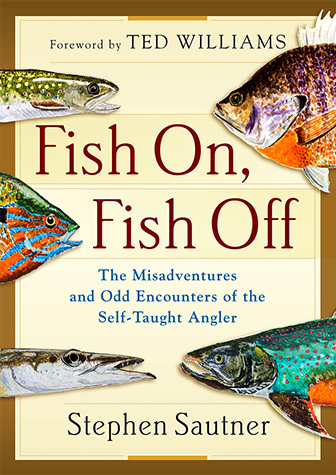
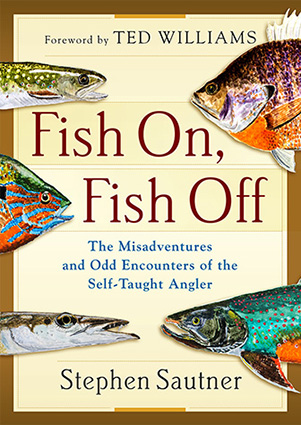
Initial changes to support new book

diff --git a/css/stephensautner.css b/css/stephensautner.css
@@ -1,1 +1,1 @@
-*{margin:0;padding:0}a{color:#244c69;transition:all .1s ease-out}a:hover{color:#3379ac}body,html{font-size:16px;line-height:16px;max-width:100%;overflow-x:hidden;width:100%;-webkit-font-smoothing:antialiased}img{border:0;display:block}.ss-text-header{color:#302713;font-family:'Playfair Display','Georgia','Times New Roman',serif;transition:all .1s ease-out}.ss-text-header--is-about{font-size:2.1875rem;line-height:2.1875rem;margin:0 0 30px}@media all and (max-width:800px){.ss-text-header--is-about{margin:0 0 15px;text-align:center}}.ss-text-header--is-feature{font-size:3.125rem;line-height:3.125rem;margin:0 0 30px}@media all and (max-width:1100px){.ss-text-header--is-feature{font-size:2.85rem;line-height:2.85rem;margin:0 0 20px}}@media all and (max-width:800px){.ss-text-header--is-feature{font-size:2.25rem;line-height:2.25rem;margin:0 0 15px}}.ss-text-header--is-page-title{background-image:-webkit-linear-gradient(transparent, transparent),url('../images/texture-tan.jpg');background-image:-o-linear-gradient(transparent, transparent);color:#e7e2d5;font-size:4.5rem;line-height:6rem;margin:30px 0 0;text-align:center;-webkit-background-clip:text;-webkit-text-fill-color:transparent}@media all and (max-width:1100px){.ss-text-header--is-page-title{font-size:3.5rem;line-height:4rem;margin:17px 0 0}}@media all and (max-width:800px){.ss-text-header--is-page-title{font-size:2.75rem;line-height:3.25rem;margin:10px 0 0}}@media all and (max-width:450px){.ss-text-header--is-page-title{font-size:2.25rem;line-height:2.75rem;margin:8px 0 0 0}}.ss-text-header--is-section-header{color:#fff;font-size:2.1875rem;line-height:2.1875rem;margin:0 0 50px;text-align:center}@media all and (max-width:450px){.ss-text-header--is-section-header{font-size:1.85rem;line-height:1.85rem}}.ss-text-header--is-subheader{color:#8f7a4c;font-size:1.5625rem;line-height:1.5625rem;margin:0 0 10px}@media all and (max-width:1100px){.ss-text-header--is-subheader{font-size:1.45rem;line-height:1.45rem}}@media all and (max-width:800px){.ss-text-header--is-subheader{font-size:1.25rem;line-height:1.25rem}}.ss-text-header--is-work-item{color:#fff;font-size:1.5625rem;line-height:1.5625rem}@media all and (max-width:800px){.ss-text-header--is-work-item{font-size:1.45rem;line-height:1.45rem}}.ss-overlay-type{color:#fff;font-family:'Source Serif Pro','Georgia','Times New Roman',serif;font-size:.9375rem;line-height:.9375rem;opacity:.45;text-shadow:1px 1px #000;width:auto}@media all and (max-width:800px){.ss-overlay-type{font-size:.875rem;line-height:.875rem}}@media all and (max-width:450px){.ss-overlay-type{font-size:.75rem;line-height:.75rem}}.ss-button{background:url('../images/texture-tan.jpg');border-radius:4px;color:#302713;display:inline-block;font-family:'Playfair Display','Georgia','Times New Roman',serif;font-size:1.4375rem;line-height:1.4375rem;padding:8px 15px 12px;text-decoration:none;transition:all .1s ease-out}.ss-button:hover{color:#302713;opacity:.85}.ss-button--small{font-size:1.25rem;line-height:1.25rem;padding:7px 12px 9px}.ss-section{padding:60px 7.0833%;position:relative}.ss-section--blue{background:url('../images/texture-blue.jpg')}.ss-section--brown{background:url('../images/texture-brown.jpg')}.ss-section--dark-brown{background:url('../images/texture-dark-brown.jpg')}.ss-section--tan{background:url('../images/texture-tan.jpg')}.ss-section__container{margin:0 auto;max-width:1130px}.ss-header{background-image:url('../images/photo-header-full.jpg');background-position:center center;background-size:cover;max-height:700px;position:relative}@media all and (max-width:1100px){.ss-header{background-image:url('../images/photo-header-desktop.jpg')}}@media all and (max-width:800px){.ss-header{background-image:url('../images/photo-header-tablet.jpg')}}@media all and (max-width:450px){.ss-header{background-image:url('../images/photo-header-mobile.jpg')}}.ss-header:before{display:block;content:"";width:100%;padding-top:50%}.ss-header__caption{bottom:5px;right:10px;position:absolute}@media all and (max-width:800px){.ss-header__caption{bottom:25px;left:10px;right:auto;width:100%}}@media all and (max-width:450px){.ss-header__caption{bottom:21px}}.ss-header__content{position:absolute;top:0;left:0;right:0;bottom:0}.ss-header__copyright{bottom:5px;left:10px;position:absolute}.ss-nav{margin:15px auto 0;text-align:center;width:100%}@media all and (max-width:800px){.ss-nav{margin:10px auto 0}}.ss-nav__item{color:#88a5a0;font-family:'Playfair Display','Georgia','Times New Roman',serif;font-size:1.4375rem;line-height:1.4375rem;margin:0 30px 0 0;transition:all .1s ease-out;text-decoration:none}.ss-nav__item:hover{color:#b4d5cf}.ss-nav__item:last-of-type{margin:0}@media all and (max-width:1100px){.ss-nav__item{font-size:1.25rem;line-height:1.25rem;margin:0 20px 0 0}}@media all and (max-width:800px){.ss-nav__item{font-size:1.15rem;line-height:1.15rem;margin:0 15px 0 0}}@media all and (max-width:450px){.ss-nav{display:none}}.ss-feature__container{display:inline-block;width:58%;vertical-align:top}@media all and (max-width:800px){.ss-feature__container{width:100%}}.ss-feature__image{background:rgba(121,82,53,0.1);display:inline-block;margin:0 5% 0 0;max-width:336px;padding:2.91%;width:29.8%}@media all and (max-width:800px){.ss-feature__image{display:block;margin:0 auto 30px;padding:5%;width:90%}}.ss-feature__image__cover{height:auto;width:100%}.ss-feature__quote{margin:0 0 45px}.ss-feature__quote:last-of-type{margin:0}.ss-feature__quote__author{display:block;font-family:'Playfair Display','Georgia','Times New Roman',serif;font-size:1.5625rem;line-height:1.5265rem;margin:0 0 10px}@media all and (max-width:800px){.ss-feature__quote__author{font-size:1.35rem;line-height:1.35rem}}.ss-feature__quote__author-title{display:block;font-family:'Source Serif Pro','Georgia','Times New Roman',serif;font-size:.875rem;line-height:1.25rem;padding:0 50px 0 19px}.ss-feature__quote__content{display:block;font-family:'Source Serif Pro','Georgia','Times New Roman',serif;font-size:1.125rem;line-height:2.0625rem;margin:0 0 15px}@media all and (max-width:800px){.ss-feature__quote__content{font-size:1rem;line-height:1.9rem}}.ss-work .ss-button{margin:15px 0 0}.ss-work__author{color:#fff;display:block;font-family:'Playfair Display','Georgia','Times New Roman',serif;font-size:1.25rem;line-height:1.25rem}.ss-work__container{display:inline-block;vertical-align:top}.ss-work__container--is-left{margin:0 5.3% 0 0;width:28.85%}.ss-work__container--is-right{width:65%}@media all and (max-width:800px){.ss-work__container{display:block;margin:0 auto 60px;max-width:327px;width:100%}}.ss-work__container__item{display:inline-block;margin:0 0 38px;width:100%}.ss-work__container__item .ss-work__image{margin:0 4.8% 0 0;padding:2.7%;width:36%;vertical-align:top}@media all and (max-width:800px){.ss-work__container__item .ss-work__image{display:block;margin:0 0 15px;padding:15px;width:calc(100% - 30px)}}.ss-work__container__item .ss-work__content{display:inline-block;width:52%}@media all and (max-width:800px){.ss-work__container__item .ss-work__content{width:100%}}.ss-work__image{background:rgba(255,255,255,0.1);display:inline-block;padding:6%}@media all and (max-width:800px){.ss-work__image{display:block;max-width:287px;padding:15px}}.ss-work__image--is-cover{max-width:287px}.ss-work__image__file{height:auto;width:100%}.ss-work__text{color:#fff;display:inline-block;font-family:'Source Serif Pro','Georgia','Times New Roman',serif;font-size:1.125rem;line-height:1.6875rem;margin:15px 0 0}@media all and (max-width:800px){.ss-work__text{font-size:1rem;line-height:1.5rem}}@media all and (max-width:800px){.ss-about{padding:60px 7.0833% 40px}}.ss-about__content{width:42.5%}@media all and (max-width:800px){.ss-about__content{width:100%}}.ss-about__content__text{color:#302713;font-family:'Source Serif Pro','Georgia','Times New Roman',serif;font-size:1rem;line-height:1.9rem}.ss-about__image{background-image:url('../images/photo-about.jpg');background-position:center center;background-repeat:no-repeat;background-size:cover;height:100%;left:50%;position:absolute;top:0;width:50%}@media all and (max-width:800px){.ss-about__image{left:-8.5%;margin:0;position:relative;top:40px;width:calc(100% + 17%)}.ss-about__image:before{display:block;content:"";width:100%;padding-top:80%}}.ss-about__image__caption{bottom:5px;position:absolute;right:10px}.ss-contact .ss-text-header{color:#f9f3e4;margin:0 0 40px}.ss-contact__text{color:#f9f3e4;font-family:'Source Serif Pro','Georgia','Times New Roman',serif;font-size:1.125rem;line-height:1.125rem;margin:0 0 8px;text-align:center}.ss-contact__text--is-header{font-weight:bold;line-height:1.5rem;margin:0 0 12px}.ss-contact__text__link{color:#cfba8b}.ss-contact__text__link:hover{color:#edd8a9}.ss-footer{padding:40px 7.0833%}.ss-footer__copyright{color:#c7c0ae;font-family:'Playfair Display','Georgia','Times New Roman',serif;font-size:1.25rem;line-height:1.25rem;margin:0 0 15px;text-align:center}.ss-footer__text{color:#8a8371;font-family:'Source Serif Pro','Georgia','Times New Roman',serif;font-size:.875rem;line-height:.875rem;margin:0 0 8px;text-align:center}.ss-footer__text__link{color:#ab9971}.ss-footer__text__link:hover{color:#c6b284}/*# sourceMappingURL=stephensautner.css.map */
+*{margin:0;padding:0}a{color:#244c69;transition:all .1s ease-out}a:hover{color:#3379ac}body,html{font-size:16px;line-height:16px;max-width:100%;overflow-x:hidden;width:100%;-webkit-font-smoothing:antialiased}img{border:0;display:block}.ss-text-header{color:#302713;font-family:'Playfair Display','Georgia','Times New Roman',serif;transition:all .1s ease-out}.ss-text-header--is-about{font-size:2.1875rem;line-height:2.1875rem;margin:0 0 30px}@media all and (max-width:800px){.ss-text-header--is-about{margin:0 0 15px;text-align:center}}.ss-text-header--is-feature{font-size:3.125rem;line-height:3.125rem;margin:0 0 30px}@media all and (max-width:1100px){.ss-text-header--is-feature{font-size:2.85rem;line-height:2.85rem;margin:0 0 20px}}@media all and (max-width:800px){.ss-text-header--is-feature{font-size:2.25rem;line-height:2.25rem;margin:0 0 15px}}.ss-text-header--is-page-title{background-image:-webkit-linear-gradient(transparent, transparent),url('../images/texture-tan.jpg');background-image:-o-linear-gradient(transparent, transparent);color:#e7e2d5;font-size:4.5rem;line-height:6rem;margin:30px 0 0;text-align:center;-webkit-background-clip:text;-webkit-text-fill-color:transparent}@media all and (max-width:1100px){.ss-text-header--is-page-title{font-size:3.5rem;line-height:4rem;margin:17px 0 0}}@media all and (max-width:800px){.ss-text-header--is-page-title{font-size:2.75rem;line-height:3.25rem;margin:10px 0 0}}@media all and (max-width:450px){.ss-text-header--is-page-title{font-size:2.25rem;line-height:2.75rem;margin:8px 0 0 0}}.ss-text-header--is-section-header{color:#fff;font-size:2.1875rem;line-height:2.1875rem;margin:0 0 50px;text-align:center}@media all and (max-width:450px){.ss-text-header--is-section-header{font-size:1.85rem;line-height:1.85rem}}.ss-text-header--is-subheader{color:#8f7a4c;font-size:1.5625rem;line-height:1.5625rem;margin:0 0 10px}@media all and (max-width:1100px){.ss-text-header--is-subheader{font-size:1.45rem;line-height:1.45rem}}@media all and (max-width:800px){.ss-text-header--is-subheader{font-size:1.25rem;line-height:1.25rem}}.ss-text-header--is-work-item{color:#fff;font-size:1.5625rem;line-height:1.5625rem}@media all and (max-width:800px){.ss-text-header--is-work-item{font-size:1.45rem;line-height:1.45rem}}.ss-text-header__subheader{display:block;font-size:1.65rem;line-height:2.25rem}@media all and (max-width:800px){.ss-text-header__subheader{font-size:1.15rem;line-height:1.75rem}}.ss-overlay-type{color:#fff;font-family:'Source Serif Pro','Georgia','Times New Roman',serif;font-size:.9375rem;line-height:.9375rem;opacity:.45;text-shadow:1px 1px #000;width:auto}@media all and (max-width:800px){.ss-overlay-type{font-size:.875rem;line-height:.875rem}}@media all and (max-width:450px){.ss-overlay-type{font-size:.75rem;line-height:.75rem}}.ss-button{background:url('../images/texture-tan.jpg');border-radius:4px;color:#302713;display:inline-block;font-family:'Playfair Display','Georgia','Times New Roman',serif;font-size:1.4375rem;line-height:1.4375rem;padding:8px 15px 12px;text-decoration:none;transition:all .1s ease-out}.ss-button:hover{color:#302713;opacity:.85}.ss-button--blue{background:url('../images/texture-blue.jpg');color:#fff}.ss-button--brown{background:url('../images/texture-brown.jpg');color:#fff}.ss-button--brown:hover{background:url('../images/texture-dark-brown.jpg');color:#fff;opacity:1}.ss-button--small{font-size:1.25rem;line-height:1.25rem;padding:7px 12px 9px}.ss-section{padding:60px 7.0833%;position:relative}.ss-section--blue{background:url('../images/texture-blue.jpg')}.ss-section--brown{background:url('../images/texture-brown.jpg')}.ss-section--dark-brown{background:url('../images/texture-dark-brown.jpg')}.ss-section--tan{background:url('../images/texture-tan.jpg')}.ss-section__container{margin:0 auto;max-width:1130px}.ss-header{background-image:url('../images/photo-header-full.jpg');background-position:center center;background-size:cover;max-height:700px;position:relative}@media all and (max-width:1100px){.ss-header{background-image:url('../images/photo-header-desktop.jpg')}}@media all and (max-width:800px){.ss-header{background-image:url('../images/photo-header-tablet.jpg')}}@media all and (max-width:450px){.ss-header{background-image:url('../images/photo-header-mobile.jpg')}}.ss-header:before{display:block;content:"";width:100%;padding-top:50%}.ss-header__caption{bottom:5px;right:10px;position:absolute}@media all and (max-width:800px){.ss-header__caption{bottom:25px;left:10px;right:auto;width:100%}}@media all and (max-width:450px){.ss-header__caption{bottom:21px}}.ss-header__content{position:absolute;top:0;left:0;right:0;bottom:0}.ss-header__copyright{bottom:5px;left:10px;position:absolute}.ss-nav{margin:15px auto 0;text-align:center;width:100%}@media all and (max-width:800px){.ss-nav{margin:10px auto 0}}.ss-nav__item{color:#88a5a0;font-family:'Playfair Display','Georgia','Times New Roman',serif;font-size:1.4375rem;line-height:1.4375rem;margin:0 30px 0 0;transition:all .1s ease-out;text-decoration:none}.ss-nav__item:hover{color:#b4d5cf}.ss-nav__item:last-of-type{margin:0}@media all and (max-width:1100px){.ss-nav__item{font-size:1.25rem;line-height:1.25rem;margin:0 20px 0 0}}@media all and (max-width:800px){.ss-nav__item{font-size:1.15rem;line-height:1.15rem;margin:0 15px 0 0}}@media all and (max-width:450px){.ss-nav{display:none}}.ss-feature__button{margin:0 0 20px}.ss-feature__container{display:inline-block;width:58%;vertical-align:top}@media all and (max-width:800px){.ss-feature__container{width:100%}}.ss-feature__image{background:rgba(121,82,53,0.1);display:inline-block;margin:0 5% 0 0;max-width:336px;padding:2.91%;width:29.8%}@media all and (max-width:800px){.ss-feature__image{display:block;margin:0 auto 30px;padding:5%;width:90%}}.ss-feature__image__cover{height:auto;width:100%}.ss-feature__quote{margin:0 0 45px}.ss-feature__quote:last-of-type{margin:0}.ss-feature__quote__author{display:block;font-family:'Playfair Display','Georgia','Times New Roman',serif;font-size:1.5625rem;line-height:1.5265rem;margin:0 0 10px}@media all and (max-width:800px){.ss-feature__quote__author{font-size:1.35rem;line-height:1.35rem}}.ss-feature__quote__author-title{display:block;font-family:'Source Serif Pro','Georgia','Times New Roman',serif;font-size:.875rem;line-height:1.25rem;padding:0 50px 0 19px}.ss-feature__quote__content{display:block;font-family:'Source Serif Pro','Georgia','Times New Roman',serif;font-size:1.125rem;line-height:2.0625rem;margin:0 0 15px}@media all and (max-width:800px){.ss-feature__quote__content{font-size:1rem;line-height:1.9rem}}.ss-work .ss-button{margin:15px 0 0}.ss-work__author{color:#fff;display:block;font-family:'Playfair Display','Georgia','Times New Roman',serif;font-size:1.25rem;line-height:1.25rem;margin:10px 0 0}.ss-work__author-title{color:#fff;display:block;font-family:'Source Serif Pro','Georgia','Times New Roman',serif;font-size:.85rem;line-height:.85rem;margin:8px 0 0 16px}.ss-work__container{display:inline-block;vertical-align:top}.ss-work__container--is-left{margin:0 5.3% 0 0;width:30%}.ss-work__container--is-right{width:25%}@media all and (max-width:800px){.ss-work__container{display:block;margin:0 auto 60px;max-width:327px;width:100%}}.ss-work__container__item{display:inline-block;margin:0 0 38px;width:100%}.ss-work__container__item .ss-work__image{margin:0 0 10px 0;padding:6.5%;vertical-align:top}@media all and (max-width:800px){.ss-work__container__item .ss-work__image{display:block;margin:0 0 15px;padding:15px;width:calc(100% - 30px)}}.ss-work__container__item .ss-work__content{display:block}.ss-work__image{background:rgba(255,255,255,0.1);display:inline-block;padding:6%}@media all and (max-width:800px){.ss-work__image{display:block;max-width:287px;padding:15px}}.ss-work__image--is-cover{max-width:287px}.ss-work__image__file{height:auto;width:100%}.ss-work__text{color:#fff;display:block;font-family:'Source Serif Pro','Georgia','Times New Roman',serif;font-size:1.125rem;line-height:1.6875rem;margin:15px 0 0}@media all and (max-width:800px){.ss-work__text{font-size:1rem;line-height:1.5rem}}@media all and (max-width:800px){.ss-about{padding:60px 7.0833% 40px}}.ss-about__content{width:42.5%}@media all and (max-width:800px){.ss-about__content{width:100%}}.ss-about__content__text{color:#302713;font-family:'Source Serif Pro','Georgia','Times New Roman',serif;font-size:1.15rem;line-height:2.15rem}.ss-about__image{background-image:url('../images/photo-about.jpg');background-position:center center;background-repeat:no-repeat;background-size:cover;height:100%;left:50%;position:absolute;top:0;width:50%}@media all and (max-width:800px){.ss-about__image{left:-8.5%;margin:0;position:relative;top:40px;width:calc(100% + 17%)}.ss-about__image:before{display:block;content:"";width:100%;padding-top:80%}}.ss-about__image__caption{bottom:5px;position:absolute;right:10px}.ss-contact .ss-text-header{color:#f9f3e4;margin:0 0 40px}.ss-contact__text{color:#f9f3e4;font-family:'Source Serif Pro','Georgia','Times New Roman',serif;font-size:1.125rem;line-height:1.125rem;margin:0 0 8px;text-align:center}.ss-contact__text--is-header{font-weight:bold;line-height:1.5rem;margin:0 0 12px}.ss-contact__text__link{color:#cfba8b}.ss-contact__text__link:hover{color:#edd8a9}.ss-footer{padding:40px 7.0833%}.ss-footer__copyright{color:#c7c0ae;font-family:'Playfair Display','Georgia','Times New Roman',serif;font-size:1.25rem;line-height:1.25rem;margin:0 0 15px;text-align:center}.ss-footer__text{color:#8a8371;font-family:'Source Serif Pro','Georgia','Times New Roman',serif;font-size:.875rem;line-height:.875rem;margin:0 0 8px;text-align:center}.ss-footer__text__link{color:#ab9971}.ss-footer__text__link:hover{color:#c6b284}/*# sourceMappingURL=stephensautner.css.map */

diff --git a/index.html b/index.html
@@ -33,7 +33,7 @@
 			<div class="ss-header__content">
 				<h1 class="ss-text-header ss-text-header--is-page-title">Stephen Sautner</h1>
 				<nav class="ss-nav">
-					<a class="ss-nav__item" href="#writing">Writing &amp; Artwork</a>
+					<a class="ss-nav__item" href="#writing">Writing</a>
 					<a class="ss-nav__item" href="#about">About</a>
 					<a class="ss-nav__item" href="#contact">Contact</a>
 				</nav>
@@ -44,20 +44,21 @@
 		<section class="ss-section ss-section--tan ss-feature" id="writing">
 			<div class="ss-section__container">
 				<div class="ss-feature__image">
-					<a href="http://www.lyonspress.com/book/9781493025053"><img class="ss-feature__image__cover" src="images/book-fish-on-fish-off.jpg" alt="Fish on, Fish Off"></a>
+					<a href="https://www.amazon.com/Cast-Woods-Fishing-Fracking-Country/dp/1493032089/"><img class="ss-feature__image__cover" src="images/book-a-cast-in-the-woods.jpg" alt="A  Cast in the Woods"></a>
 				</div>
 				<div class="ss-feature__container">
-					<h4 class="ss-text-header ss-text-header--is-subheader">New Book Coming October 2016</h4>
-					<h2 class="ss-text-header ss-text-header--is-feature">Fish On, Fish Off</h2>
+					<h4 class="ss-text-header ss-text-header--is-subheader">New Book Coming September 2018</h4>
+					<h2 class="ss-text-header ss-text-header--is-feature">A Cast in the Woods: <span class="ss-text-header__subheader">A Story of Fly Fishing, Fracking, and Floods in the Heart of Trout Country</span></h2>
+					<a class="ss-button ss-feature__button ss-button--brown" href="https://www.amazon.com/Cast-Woods-Fishing-Fracking-Country/dp/1493032089/">Buy Now</a>
 					<div class="ss-feature__quote">
-						<span class="ss-feature__quote__content">"From Cape Breton to Cuba to New Jersey, these personal and resonant fishing tales will keep your mind on the water when your body can't be. Sautner has written a vivid and beautiful kind of memoir through fishing and you'll enjoy being his companion!"</span>
-						<span class="ss-feature__quote__author">&mdash;James Prosek</span>
-						<span class="ss-feature__quote__author-title">artist and author of <em>Eels: An Exploration from New Zealand to the Sargasso of the World's Most Mysterious Fish</em></span>
+						<span class="ss-feature__quote__content">"New York State's ban on fracking was one of the great triumphs of modern environmentalism, and behind it lay a thousand individual stories of resistance. None has been better told than this one, by a worthy Catskills heir to the literary tradition of John Burroughs and a man who has earned his fishing."</span>
+						<span class="ss-feature__quote__author">&mdash;Ben McKibben</span>
+						<span class="ss-feature__quote__author-title">author, <em>Radio Free Vermont</em></span>
 					</div>
 					<div class="ss-feature__quote">
-						<span class="ss-feature__quote__content">"These travels with a fishing rod reveal a whole new dimension to the world. And even when the underwater residents are not cooperating, there is always a tale to be reeled in."</span>
-						<span class="ss-feature__quote__author">&mdash;Jeremy Wade</span>
-						<span class="ss-feature__quote__author-title">host, <em>River Monsters</em></span>
+						<span class="ss-feature__quote__content">"It's one thing to experience a river, and another level entirely to feel connected to a river. For the connected angler, the water is sacred&hellip; lifeblood for the soul, worth defending at all costs. A Cast in the Woods is an eloquent, honest, and beautifully written book that cuts to the conscience, and pays homage to a tiny, yet magnificent, stream that weaves into one of the most storied (yet fragile) river systems on the planet."</span>
+						<span class="ss-feature__quote__author">&mdash;Kirk Deeter</span>
+						<span class="ss-feature__quote__author-title">Vice President/Editor-in-Chief, <em>Trout Unlimited/TROUT</em> magazine</span>
 					</div>
 				</div>
 			</div>
@@ -69,29 +70,37 @@
 					<div class="ss-work__image ss-work__image--is-cover">
 						<a href="http://www.penguinrandomhouse.com/books/121523/upriver-and-downstream-by-the-new-york-times-edited-by-stephen-sautner/9780307382597/"><img class="ss-work__image__file" src="images/book-upriver-and-downstream.jpg" alt="Upriver and Downstream"></a>
 					</div>
+					<a class="ss-button" href="http://www.penguinrandomhouse.com/books/121523/upriver-and-downstream-by-the-new-york-times-edited-by-stephen-sautner/9780307382597/">Buy Now</a>					
 					<span class="ss-work__text">"Great fishing stories."</span>
 					<span class="ss-work__author">&mdash;Orlando Sentinel</span>
-					<a class="ss-button" href="http://www.penguinrandomhouse.com/books/121523/upriver-and-downstream-by-the-new-york-times-edited-by-stephen-sautner/9780307382597/">Buy Now</a>
+				</div>
+				<div class="ss-work__container ss-work__container--is-left">
+					<div class="ss-work__image ss-work__image--is-cover">
+						<a href="https://www.amazon.com/Fish-Off-Stephen-Sautner/dp/1493025058"><img class="ss-work__image__file" src="images/book-fish-on-fish-off.jpg" alt="Fish On, Fish Off"></a>
+					</div>
+					<a class="ss-button" href="https://www.amazon.com/Fish-Off-Stephen-Sautner/dp/1493025058">Buy Now</a>
+					<span class="ss-work__text">"These travels with a fishing rod reveal a whole new dimension to the world. And even when the underwater residents are not cooperating, there is always a tale to be reeled in."</span>
+					<span class="ss-work__author">&mdash;Jeremy Wade</span>
+					<span class="ss-work__author-title">host, <em>River Monsters</em></span>
 				</div>
 				<div class="ss-work__container ss-work__container--is-right">
 					<div class="ss-work__container__item">
 						<div class="ss-work__image">
-							<a href="https://www.etsy.com/shop/FishOnFishOffGallery"><img class="ss-work__image__file" src="images/watercolor.jpg" alt="Watercolors"></a>
-						</div>
-						<div class="ss-work__content">
-							<h4 class="ss-text-header ss-text-header--is-work-item">Watercolors</h4>
-							<span class="ss-work__text">Painted from actual caught and released fish.</span>
-							<a class="ss-button ss-button--small" href="https://www.etsy.com/shop/FishOnFishOffGallery">Shop Now</a>
-						</div>
-					</div>
-					<div class="ss-work__container__item">
-						<div class="ss-work__image">
-							<a href="http://topics.nytimes.com/top/reference/timestopics/people/s/stephen_c_sautner/index.html?scp=1&sq=stephen%20sautner&st=cse"><img class="ss-work__image__file" src="images/photo-columns.jpg" alt="Columns"></a>
+							<a href="http://topics.nytimes.com/top/reference/timestopics/people/s/stephen_c_sautner/index.html?scp=1&sq=stephen%20sautner&st=cse" target="_blank"><img class="ss-work__image__file" src="images/photo-columns.jpg" alt="Columns"></a>
 						</div>
 						<div class="ss-work__content">
 							<h4 class="ss-text-header ss-text-header--is-work-item">Columns</h4>
 							<span class="ss-work__text">Archived "Outdoors" columns from the <em>New York Times</em>.</span>
-							<a class="ss-button ss-button--small" href="http://topics.nytimes.com/top/reference/timestopics/people/s/stephen_c_sautner/index.html?scp=1&sq=stephen%20sautner&st=cse">Read Now</a>
+							<a class="ss-button ss-button--small" href="http://topics.nytimes.com/top/reference/timestopics/people/s/stephen_c_sautner/index.html?scp=1&sq=stephen%20sautner&st=cse" target="_blank">Read Now</a>
+						</div>
+					</div>
+					<div class="ss-work__container__item">
+						<div class="ss-work__image">
+							<a href="https://medium.com/@watergrampus" target="_blank"><img class="ss-work__image__file" src="images/photo-medium.jpg" alt="Medium"></a>
+						</div>
+						<div class="ss-work__content">
+							<h4 class="ss-text-header ss-text-header--is-work-item">Medium Blog</h4>
+							<a class="ss-button ss-button--small" href="https://medium.com/@watergrampus" target="_blank">Read Now</a>
 						</div>
 					</div>
 				</div>
@@ -101,7 +110,7 @@
 			<div class="ss-section__container">
 				<div class="ss-about__content">
 					<h4 class="ss-text-header ss-text-header--is-about">About</h4>
-					<span class="ss-about__content__text">Ever since he saw his older brother lose an enormous summer flounder off a dock at the New Jersey Shore when he was 12 years old, Stephen Sautner has been trying to catch fish. Any fish. This has led him to the Falkland Islands where he cast for sea trout next to an active mine field, to the Zambezi River where three-ton elephants guarded pools filled with tigerfish and Nile crocodiles. In 2007, he edited <em>Upriver and Downstream</em>, an anthology of fishing stories from the <a href="http://topics.nytimes.com/top/reference/timestopics/people/s/stephen_c_sautner/index.html?scp=1&sq=stephen%20sautner&st=cse">"Outdoors"</a> column of <em>The New York Times</em>, and has been an active contributor to the column. His stories have also appeared in <em>The New York Times Magazine</em>, <em>Fly Rod &amp; Reel</em>, <em>Wildlife Conservation</em>, and <em>Underwater Naturalist</em>. His next book, <em>Fish On, Fish Off</em> will be published by Lyons Press in October, 2016.</span>
+					<span class="ss-about__content__text">Ever since he saw his older brother lose an enormous summer flounder off a dock at the New Jersey Shore when he was 12 years old, Stephen Sautner has been trying to catch fish. Any fish. This has led him to the Falkland Islands where he cast for sea trout next to an active mine field, to the Zambezi River where three-ton elephants guarded pools filled with tigerfish and Nile crocodiles. His stories have appeared in <em>The New York Times Magazine</em>, <em>Fly Rod &amp; Reel</em>, <em>Angler's Journal</em>, <em>Outdoor Life</em>, and <em>Underwater Naturalist</em>.</span>
 				</div>
 			</div>
 			<div class="ss-about__image">
@@ -118,7 +127,7 @@
 		</section>
 		<footer class="ss-section ss-section--dark-brown ss-footer">
 			<div class="ss-container">
-				<p class="ss-footer__copyright">&copy;2016 Stephen Sautner</p>
+				<p class="ss-footer__copyright">&copy;2018 Stephen Sautner</p>
 				<p class="ss-footer__text">Design &amp; Development by <a class="ss-footer__text__link" href="http://bousel.com" target="_blank">bousel.com</a></p>
 			</div>
 		</footer>

diff --git a/less/work.less b/less/work.less
@@ -10,6 +10,16 @@
 	font-family: @font-playfair;
 	font-size: 1.25rem;
 	line-height: 1.25rem;
+	margin: 10px 0 0;
+	
+	&-title {
+		color: #fff;
+		display: block;
+		font-family: @font-source-serif;
+		font-size: .85rem;
+		line-height: .85rem;
+		margin: 8px 0 0 16px;
+	}
 }
 
 .ss-work__container {
@@ -18,11 +28,11 @@
 	
 	&--is-left {
 		margin: 0 5.3% 0 0;
-		width: 28.85%;
+		width: 30%;
 	}
 	
 	&--is-right {
-		width: 65%;
+		width: 25%;
 	}
 	
 	@media all and (max-width:@break-tablet) {
@@ -39,9 +49,8 @@
 	width: 100%;
 	
 	.ss-work__image {
-		margin: 0 4.8% 0 0;
-		padding: 2.7%;
-		width: 36%;
+		margin: 0 0 10px 0;
+		padding: 6.5%;
 		vertical-align: top;
 		
 		@media all and (max-width:@break-tablet) {
@@ -53,12 +62,7 @@
 	}
 	
 	.ss-work__content {
-		display: inline-block;
-		width: 52%;
-		
-		@media all and (max-width:@break-tablet) {
-			width: 100%;
-		}
+		display: block;
 	}
 }
 
@@ -85,7 +89,7 @@
 
 .ss-work__text {
 	color: #fff;
-	display: inline-block;
+	display: block;
 	font-family: @font-source-serif;
 	font-size: 1.125rem;
 	line-height: 1.6875rem;

diff --git a/less/buttons.less b/less/buttons.less
@@ -15,6 +15,22 @@
 		opacity: .85;
 	}
 	
+	&--blue {
+		background: url('@{image-path}texture-blue.jpg');
+		color: #fff;
+	}
+	
+	&--brown {
+		background: url('@{image-path}texture-brown.jpg');
+		color: #fff;
+		
+		&:hover {
+			background: url('@{image-path}texture-dark-brown.jpg');
+			color: #fff;
+			opacity: 1;
+		}
+	}
+	
 	&--small {
 		font-size: 1.25rem;
 		line-height: 1.25rem;

diff --git a/less/typography.less b/less/typography.less
@@ -102,6 +102,17 @@
 			line-height: 1.45rem;
 		}
 	}
+	
+	&__subheader {
+		display: block;
+		font-size: 1.65rem;
+		line-height: 2.25rem;
+		
+		@media all and (max-width:@break-tablet) {
+			font-size: 1.15rem;
+			line-height: 1.75rem;
+		}
+	}
 }
 
 .ss-overlay-type {

diff --git a/less/about.less b/less/about.less
@@ -15,8 +15,8 @@
 .ss-about__content__text {
 	color: @dark-brown;
 	font-family: @font-source-serif;
-	font-size: 1rem;
-	line-height: 1.9rem;
+	font-size: 1.15rem;
+	line-height: 2.15rem;
 }
 
 .ss-about__image {

diff --git a/less/feature.less b/less/feature.less
@@ -1,3 +1,7 @@
+.ss-feature__button {
+	margin: 0 0 20px;
+}
+
 .ss-feature__container {
 	display: inline-block;
 	width: 58%;
